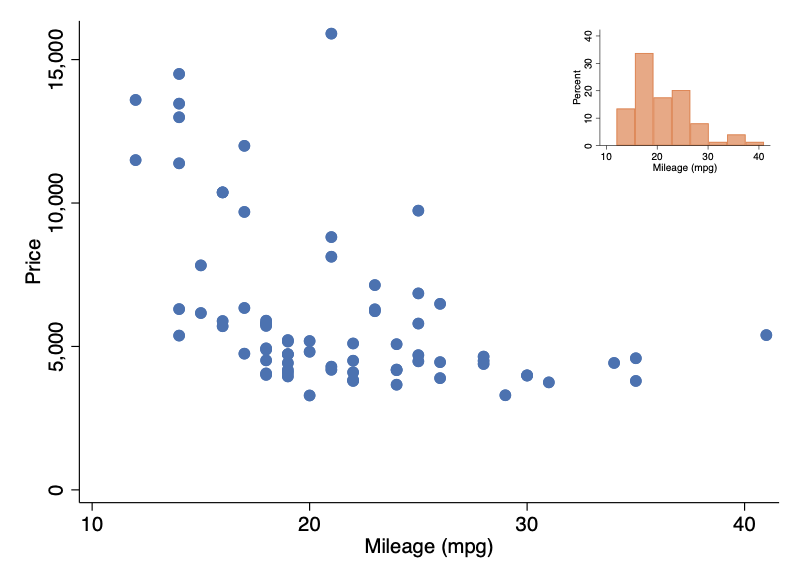
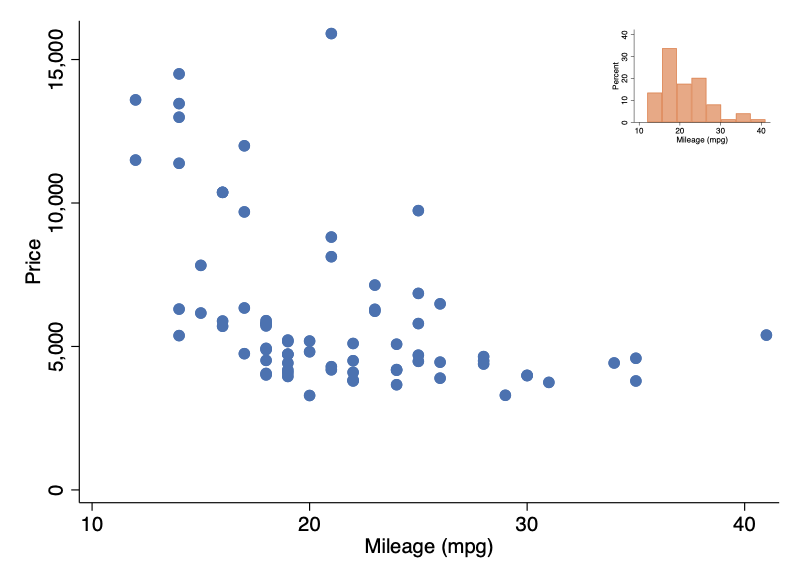
latest version

Changed region(s): [[0.7188, 0.0619, 0.9688, 0.3093], [0.4688, 0.9278, 0.5, 0.9588]]

diff --git a/README.md b/README.md
@@ -4,6 +4,10 @@ Stata module to add a graph as an inset to another graph
 `grinset` has been inspired by a note on inset plots by 
 [Tibbles and Melse (2023)](https://doi.org/10.1177/1536867X231162022).
 
+To install `grinset` from SSC, type
+
+    . ssc install grinset, replace
+
 To install `grinset` from GitHub, type
 
     . net install grinset, replace from(https://raw.githubusercontent.com/benjann/grinset/main/)
@@ -39,21 +43,31 @@ Add a histogram.
 
 ![example 2](/images/2.png)
 
-Move the inset to a different position. 
+Move the inset to a different position, change size, and change scaling of text and markers.
 
-    grinset t=5 r=5
+    grinset t=5 r=5, size(20) scale(0.4)
 
 ![example 3](/images/3.png)
 
 Add a second histogram.
 
-    grinset t=5 10: histogram price, percent
+    grinset t=5 20, size(20) scale(0.4): histogram price, percent
 
 ![example 4](/images/4.png)
 
 ---
 
 Main changes:
+
+    29apr2023 (version 1.0.1)
+    - options size(), scale(), and name() are now also allowed in Syntax 2
+    - it now also possible to modify insets other than the inset added last
+    - the scheme of the main graph was only passed through to first inset, but not
+      to subsequent insets; this is fixed
+    - option name() returned error if position other than 0 0 was specified; this
+      is fixed
+    - in Syntax 1, positioning of inset could go wrong because xsize/ysize was not
+      passed through correctly; this is fixed
 
     27apr2023 (version 1.0.0)
     - released on github
